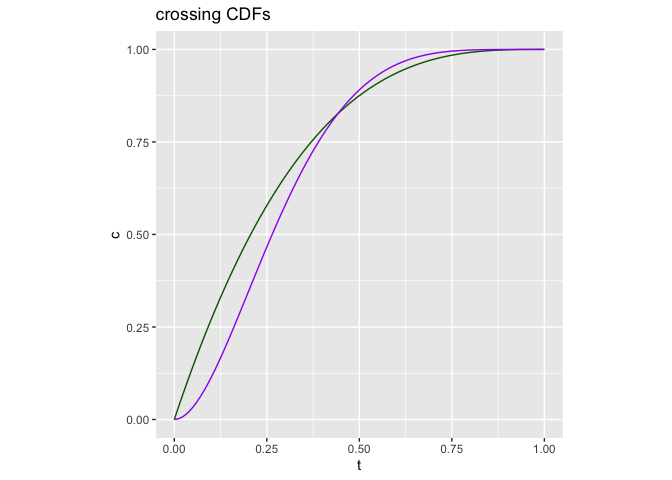
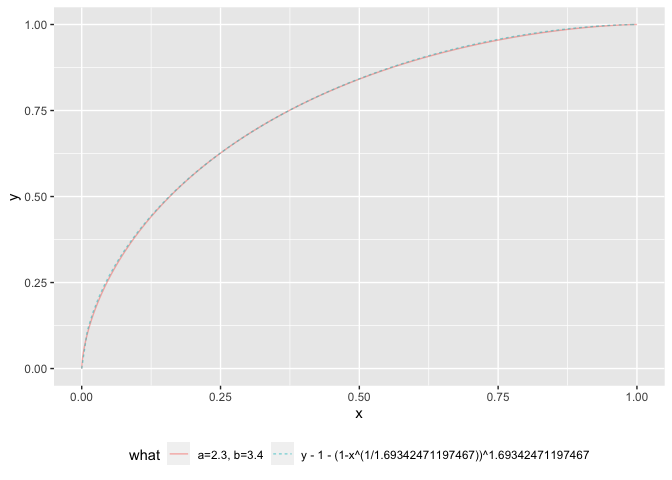
better example

diff --git a/rebalance/ROC_beta.md b/rebalance/ROC_beta.md
@@ -5,11 +5,8 @@ ROC\_beta
 library(ggplot2)
 ```
 
-    ## Warning: replacing previous import 'vctrs::data_frame' by 'tibble::data_frame'
-    ## when loading 'dplyr'
-
 ``` r
-mk_curve <- function(a, b, left = 0, right = 1) {
+mk_curve_beta <- function(a, b, left = 0, right = 1) {
   d <- data.frame(
     t = seq(left, right, length.out = 101)
   )
@@ -21,79 +18,39 @@ mk_curve <- function(a, b, left = 0, right = 1) {
   d
 }
 
-plot_curve_pair <- function(a1, b1, a2, b2, left = 0, right = 1) {
-  d1 <- mk_curve(a1, b1, left = left, right = right)
-  d2 <- mk_curve(a2, b2, left = left, right = right)
-  
-  ggplot() + 
-    geom_line(data = d1,
-              mapping = aes(x = x, y = y),
-              color = 'DarkGreen') +
-    geom_line(data = d2,
-              mapping = aes(x = x, y = y),
-              color = "Purple") + 
-    theme(aspect.ratio = 1) +
-    ggtitle(paste0(
-      'a1=', a1,
-      ', b1=', b1,
-      ', a2=', a2,
-      ', b2=', b2
-    ))
+mk_curve_polynomial <- function(b, left = 0, right = 1) {
+  d <- data.frame(
+    t = NA,
+    x = seq(left, right, length.out = 101)
+  )
+  d$y <- 1 - (1 - d$x^(1/b))^b
+  d$a <- 1
+  d$b <- b
+  d$what <- paste0('y - 1 - (1-x^(1/', b,'))^', b)
+  d
 }
 
-plot_curve_pair(2, 3.1, 1.93, 3)
+plot_curve_list <- function(curves) {
+  ggplot(data = curves,
+         aes(x = x, y = y, color = what, linetype=what)) + 
+    geom_line(alpha = 0.5) +
+    theme(legend.position="bottom")
+}
+
+c1 <- mk_curve_beta(1, 3.4)
+c2 <- mk_curve_polynomial(3.4)
+plot_curve_list(do.call(rbind, list(c1, c2)))
 ```
 
 ![](ROC_beta_files/figure-gfm/unnamed-chunk-2-1.png)<!-- -->
 
 ``` r
-plot_curve_pair(2, 3.1, 3, 3)
-```
-
-![](ROC_beta_files/figure-gfm/unnamed-chunk-2-2.png)<!-- -->
-
-``` r
-plot_curve_pair(6, 14, 3, 7)
-```
-
-![](ROC_beta_files/figure-gfm/unnamed-chunk-2-3.png)<!-- -->
-
-``` r
-plot_curve_pair(1, 3, 2, 6)
-```
-
-![](ROC_beta_files/figure-gfm/unnamed-chunk-2-4.png)<!-- -->
-
-``` r
-plot_curve_pair(1, 3, 2, 5)
-```
-
-![](ROC_beta_files/figure-gfm/unnamed-chunk-2-5.png)<!-- -->
-
-``` r
-d <- data.frame(
-    t = seq(0, 1, length.out = 101)
-  )
-d$c <- pbeta(d$t, shape1 = 1, shape2 = 3)
-d$d <- pbeta(d$t, shape1 = 2, shape2 = 5)
-
-ggplot(data = d) +
-  geom_line(mapping = aes(x = t, y = c), color = "DarkGreen") +
-  geom_line(mapping = aes(x = t, y = d), color = "Purple") +
-  theme(aspect.ratio = 1) +
-  ggtitle("crossing CDFs")
+c1 <- mk_curve_beta(2.3, 3.4)
+target_x <- c1$x[c1$t==0.5][[1]]
+# solve for (1-0.5)^b == target_x
+b_soln <- log(target_x) / log(0.5)
+c2 <- mk_curve_polynomial(b_soln)
+plot_curve_list(do.call(rbind, list(c1, c2)))
 ```
 
 ![](ROC_beta_files/figure-gfm/unnamed-chunk-3-1.png)<!-- -->
-
-``` r
-plot_curve_pair(1, 3, 2, 5, left = 0.275, right = 0.5)
-```
-
-![](ROC_beta_files/figure-gfm/unnamed-chunk-4-1.png)<!-- -->
-
-``` r
-plot_curve_pair(1, 3, 2, 5, left = 0.0, right = 0.1)
-```
-
-![](ROC_beta_files/figure-gfm/unnamed-chunk-5-1.png)<!-- -->
